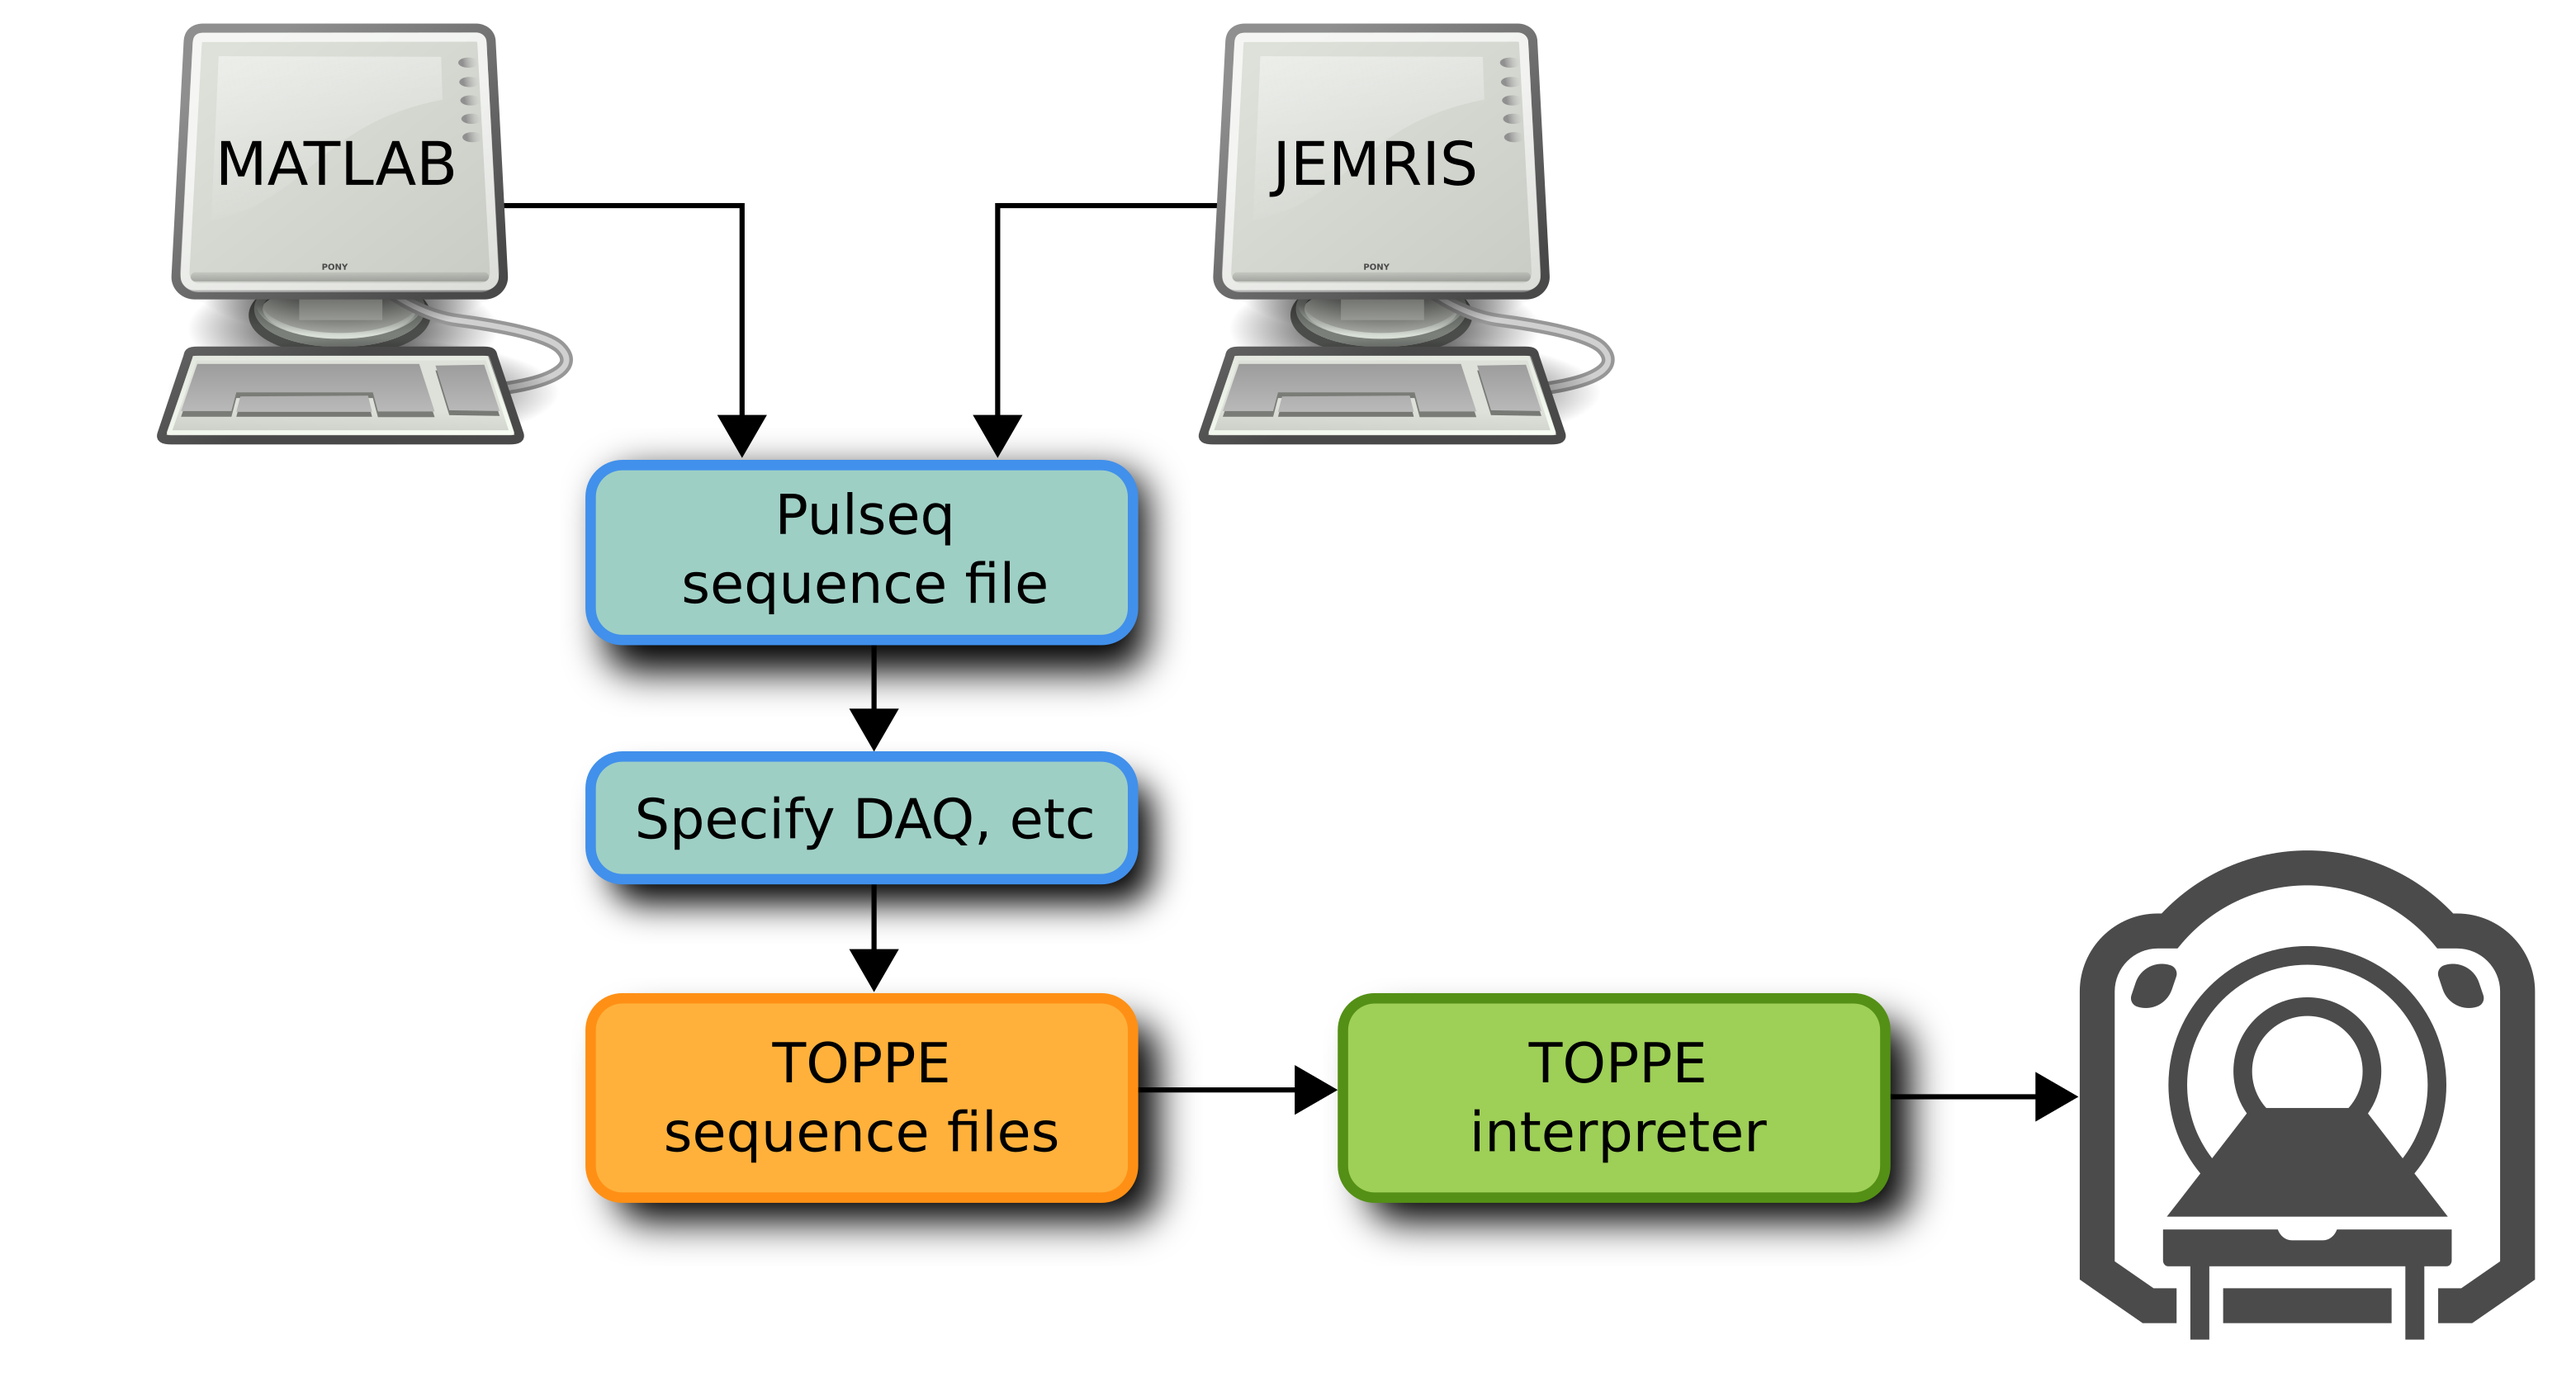
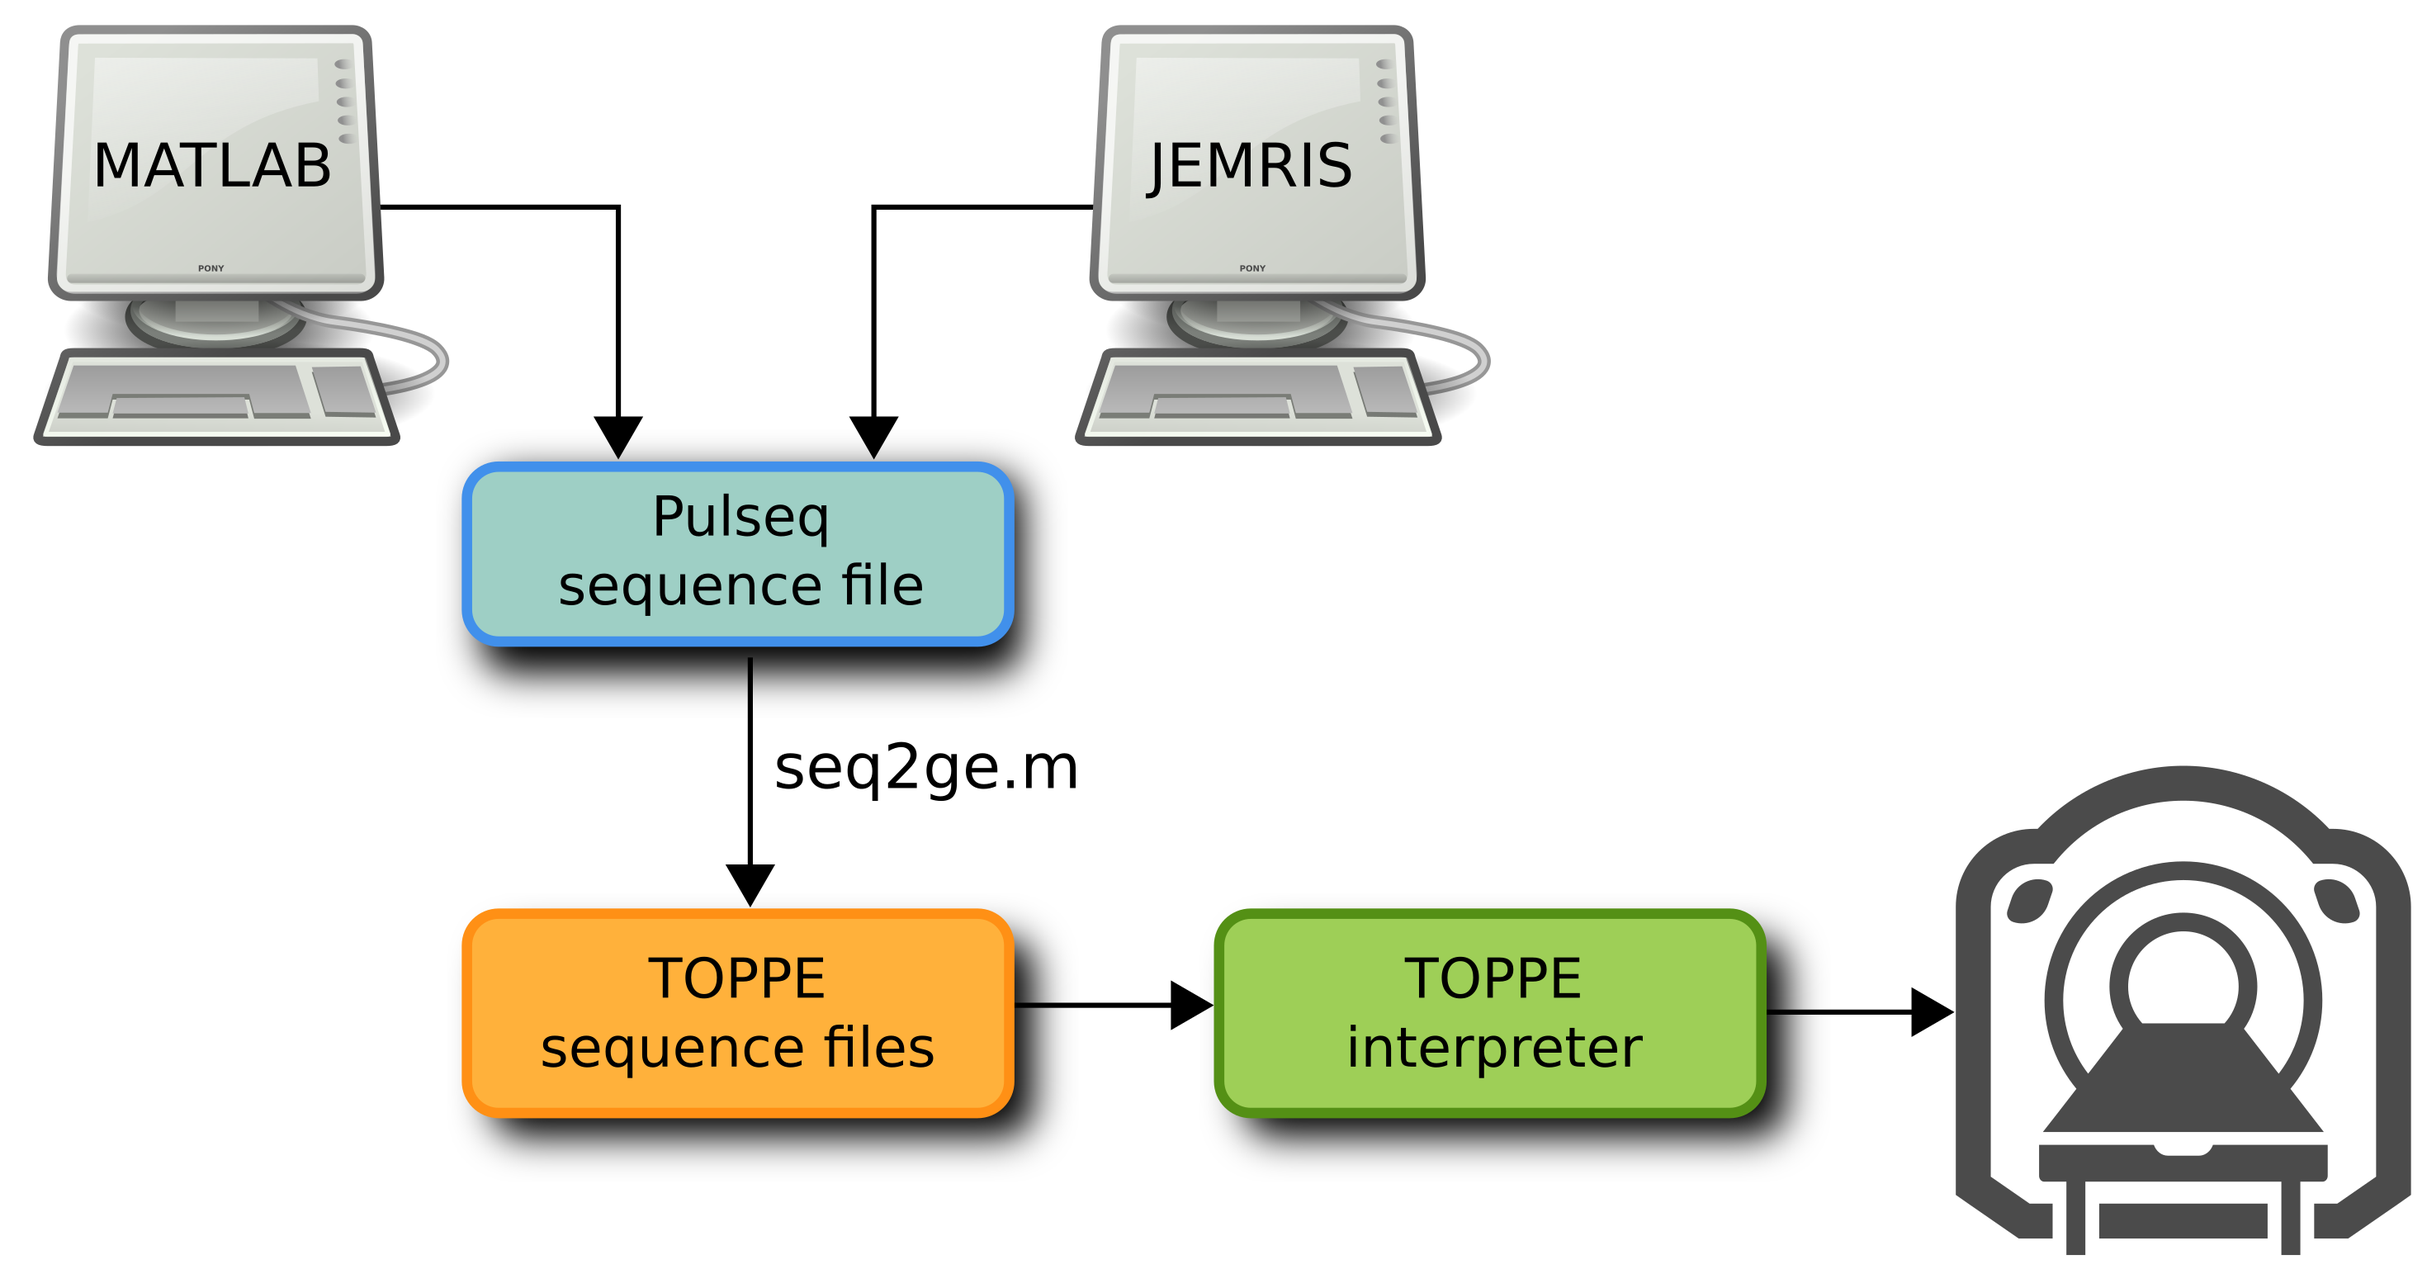
modified:   figs/pulseq.png modified:   figs/pulseq.svg modified:   index.md

Changed region(s): [[0.0, 0.0, 0.8048, 0.9231], [0.8048, 0.5846, 1.0, 0.9846], [0.8357, 0.8, 0.8667, 0.8308]]

diff --git a/index.md b/index.md
@@ -61,7 +61,7 @@ For example, to execute the 3D SPGR example, do the following:
 
 ## USING TOPPE AS A GE INTERPRETER FOR PULSEQ (under development)
 
-TOPPE can be used as a GE interpreter for the [Pulseq](https://pulseq.github.io) file format, which involves converting a Pulseq file to TOPPE files using the **'seq2ge.m'** MATLAB script included in the TOPPE distribution:
+TOPPE can be used as a GE interpreter of the [Pulseq](https://pulseq.github.io) file format, which involves converting a Pulseq file to TOPPE files using the **'seq2ge.m'** MATLAB script included in the TOPPE distribution:
 
 ![TOPPE files](/figs/pulseq.png)
 
